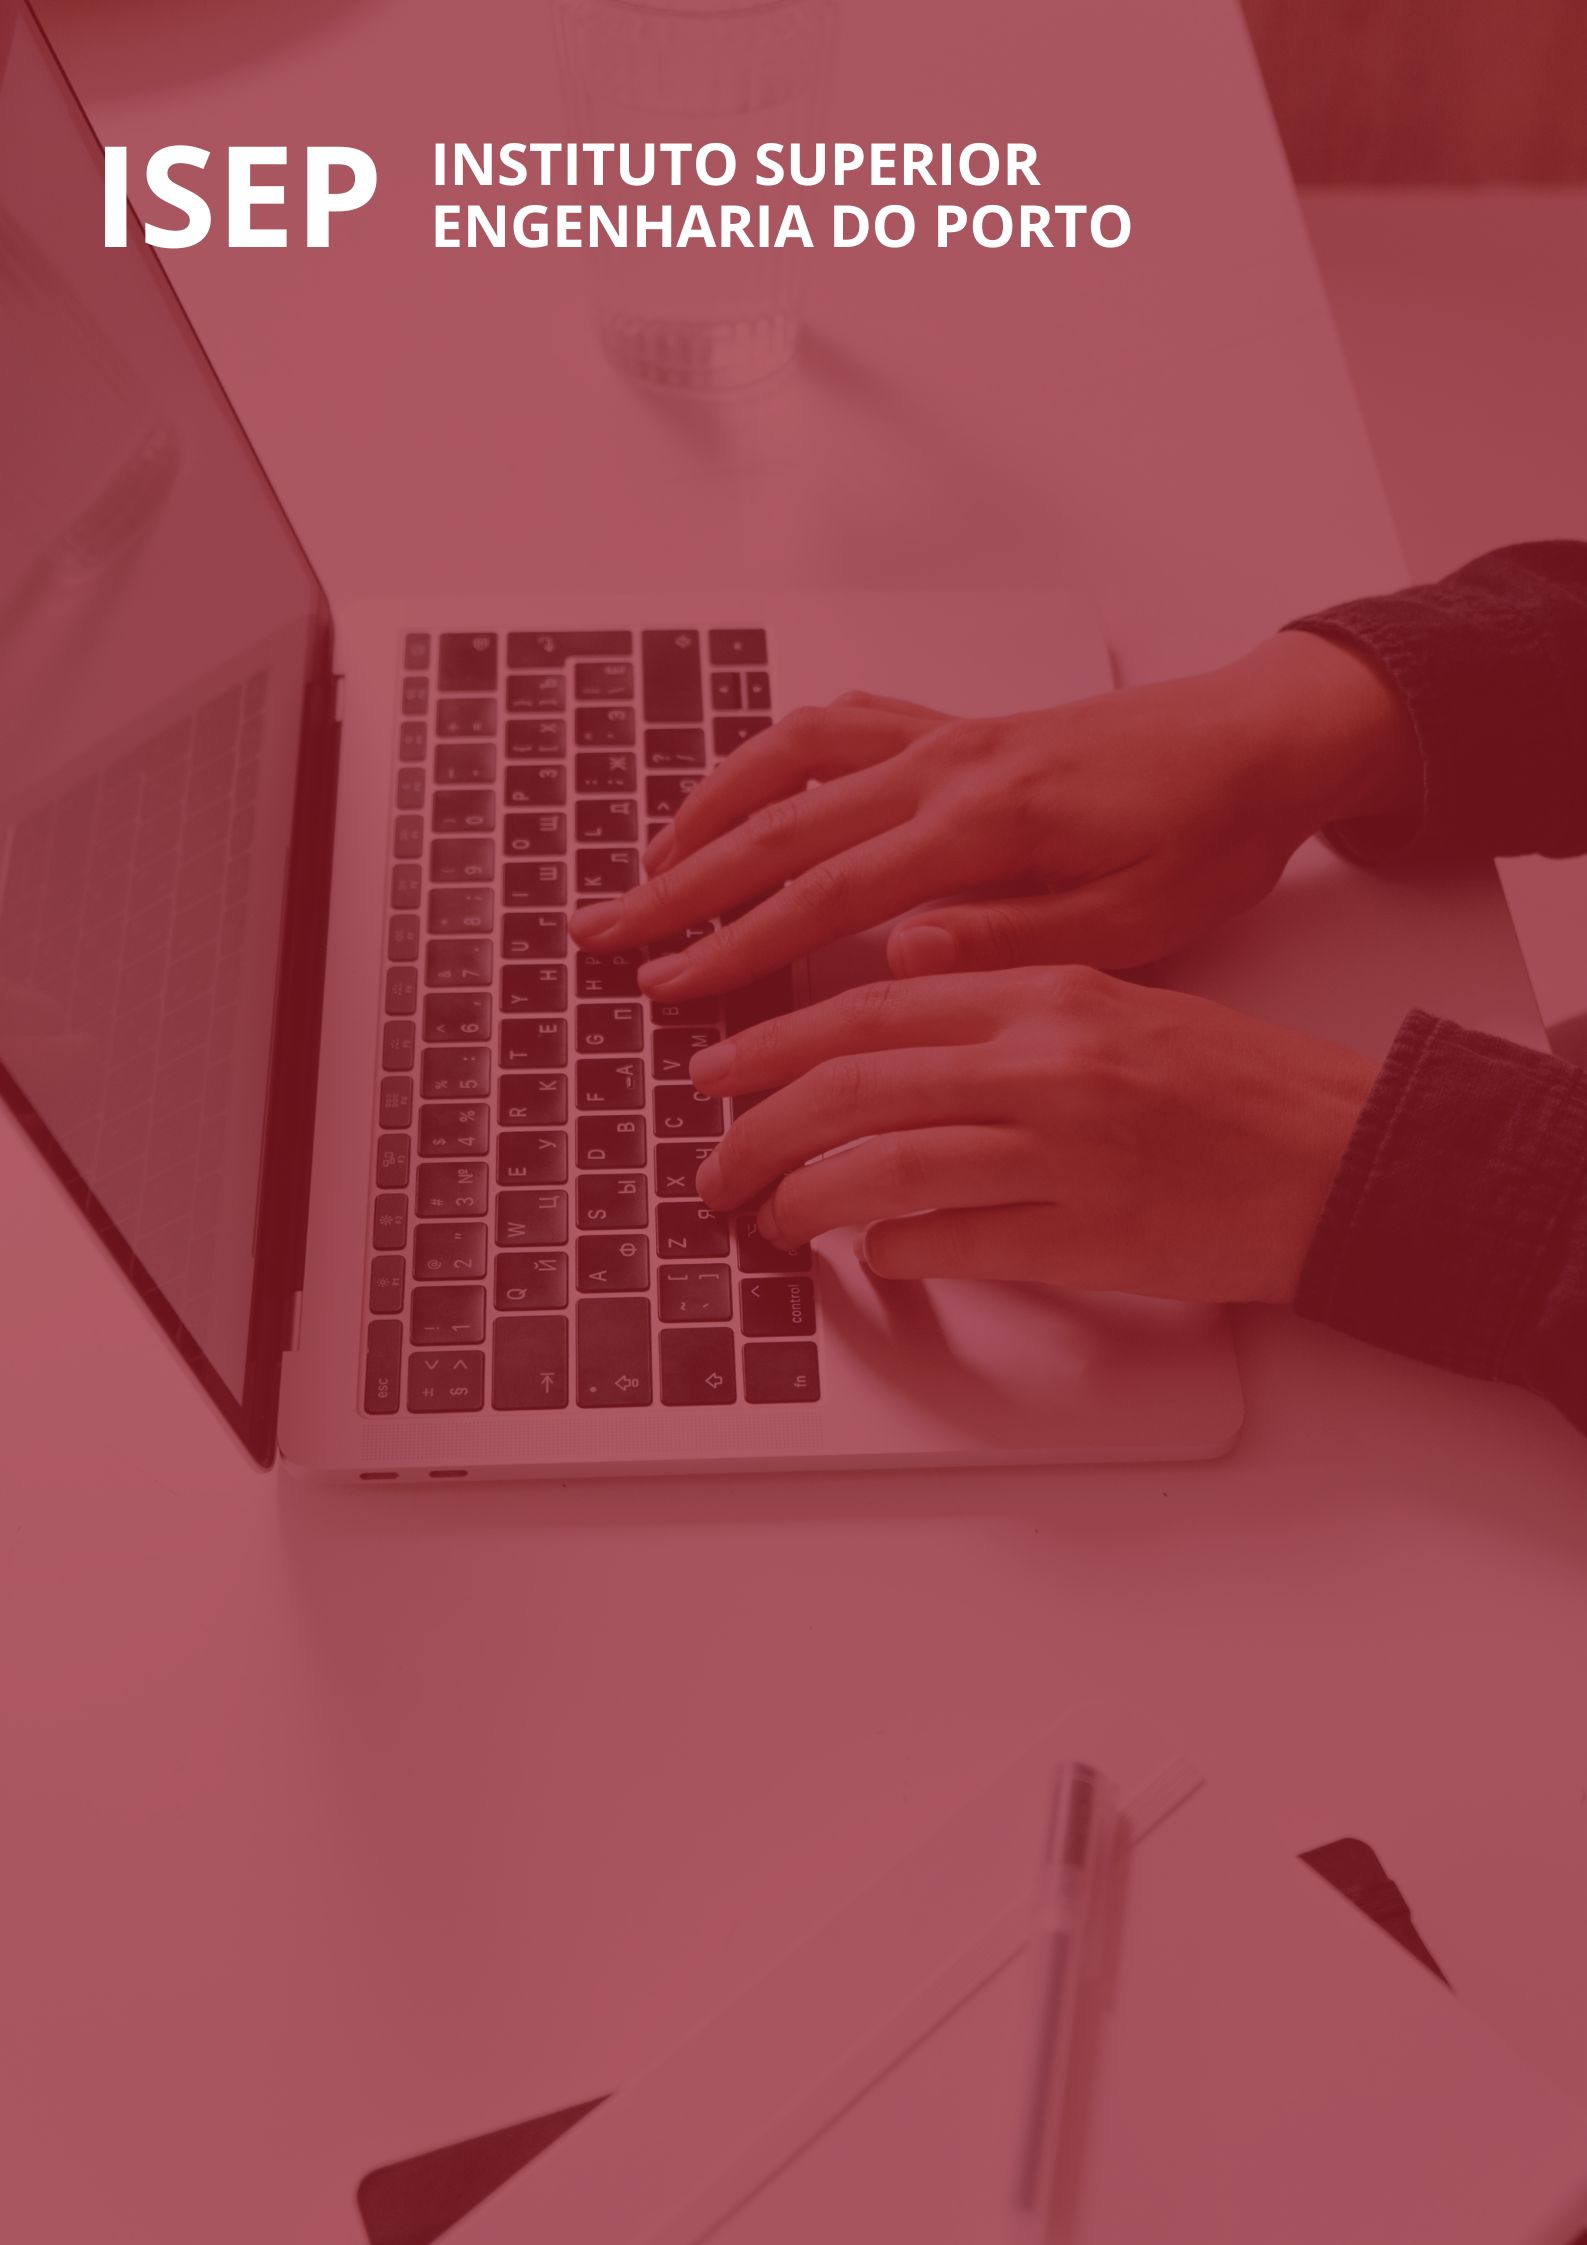
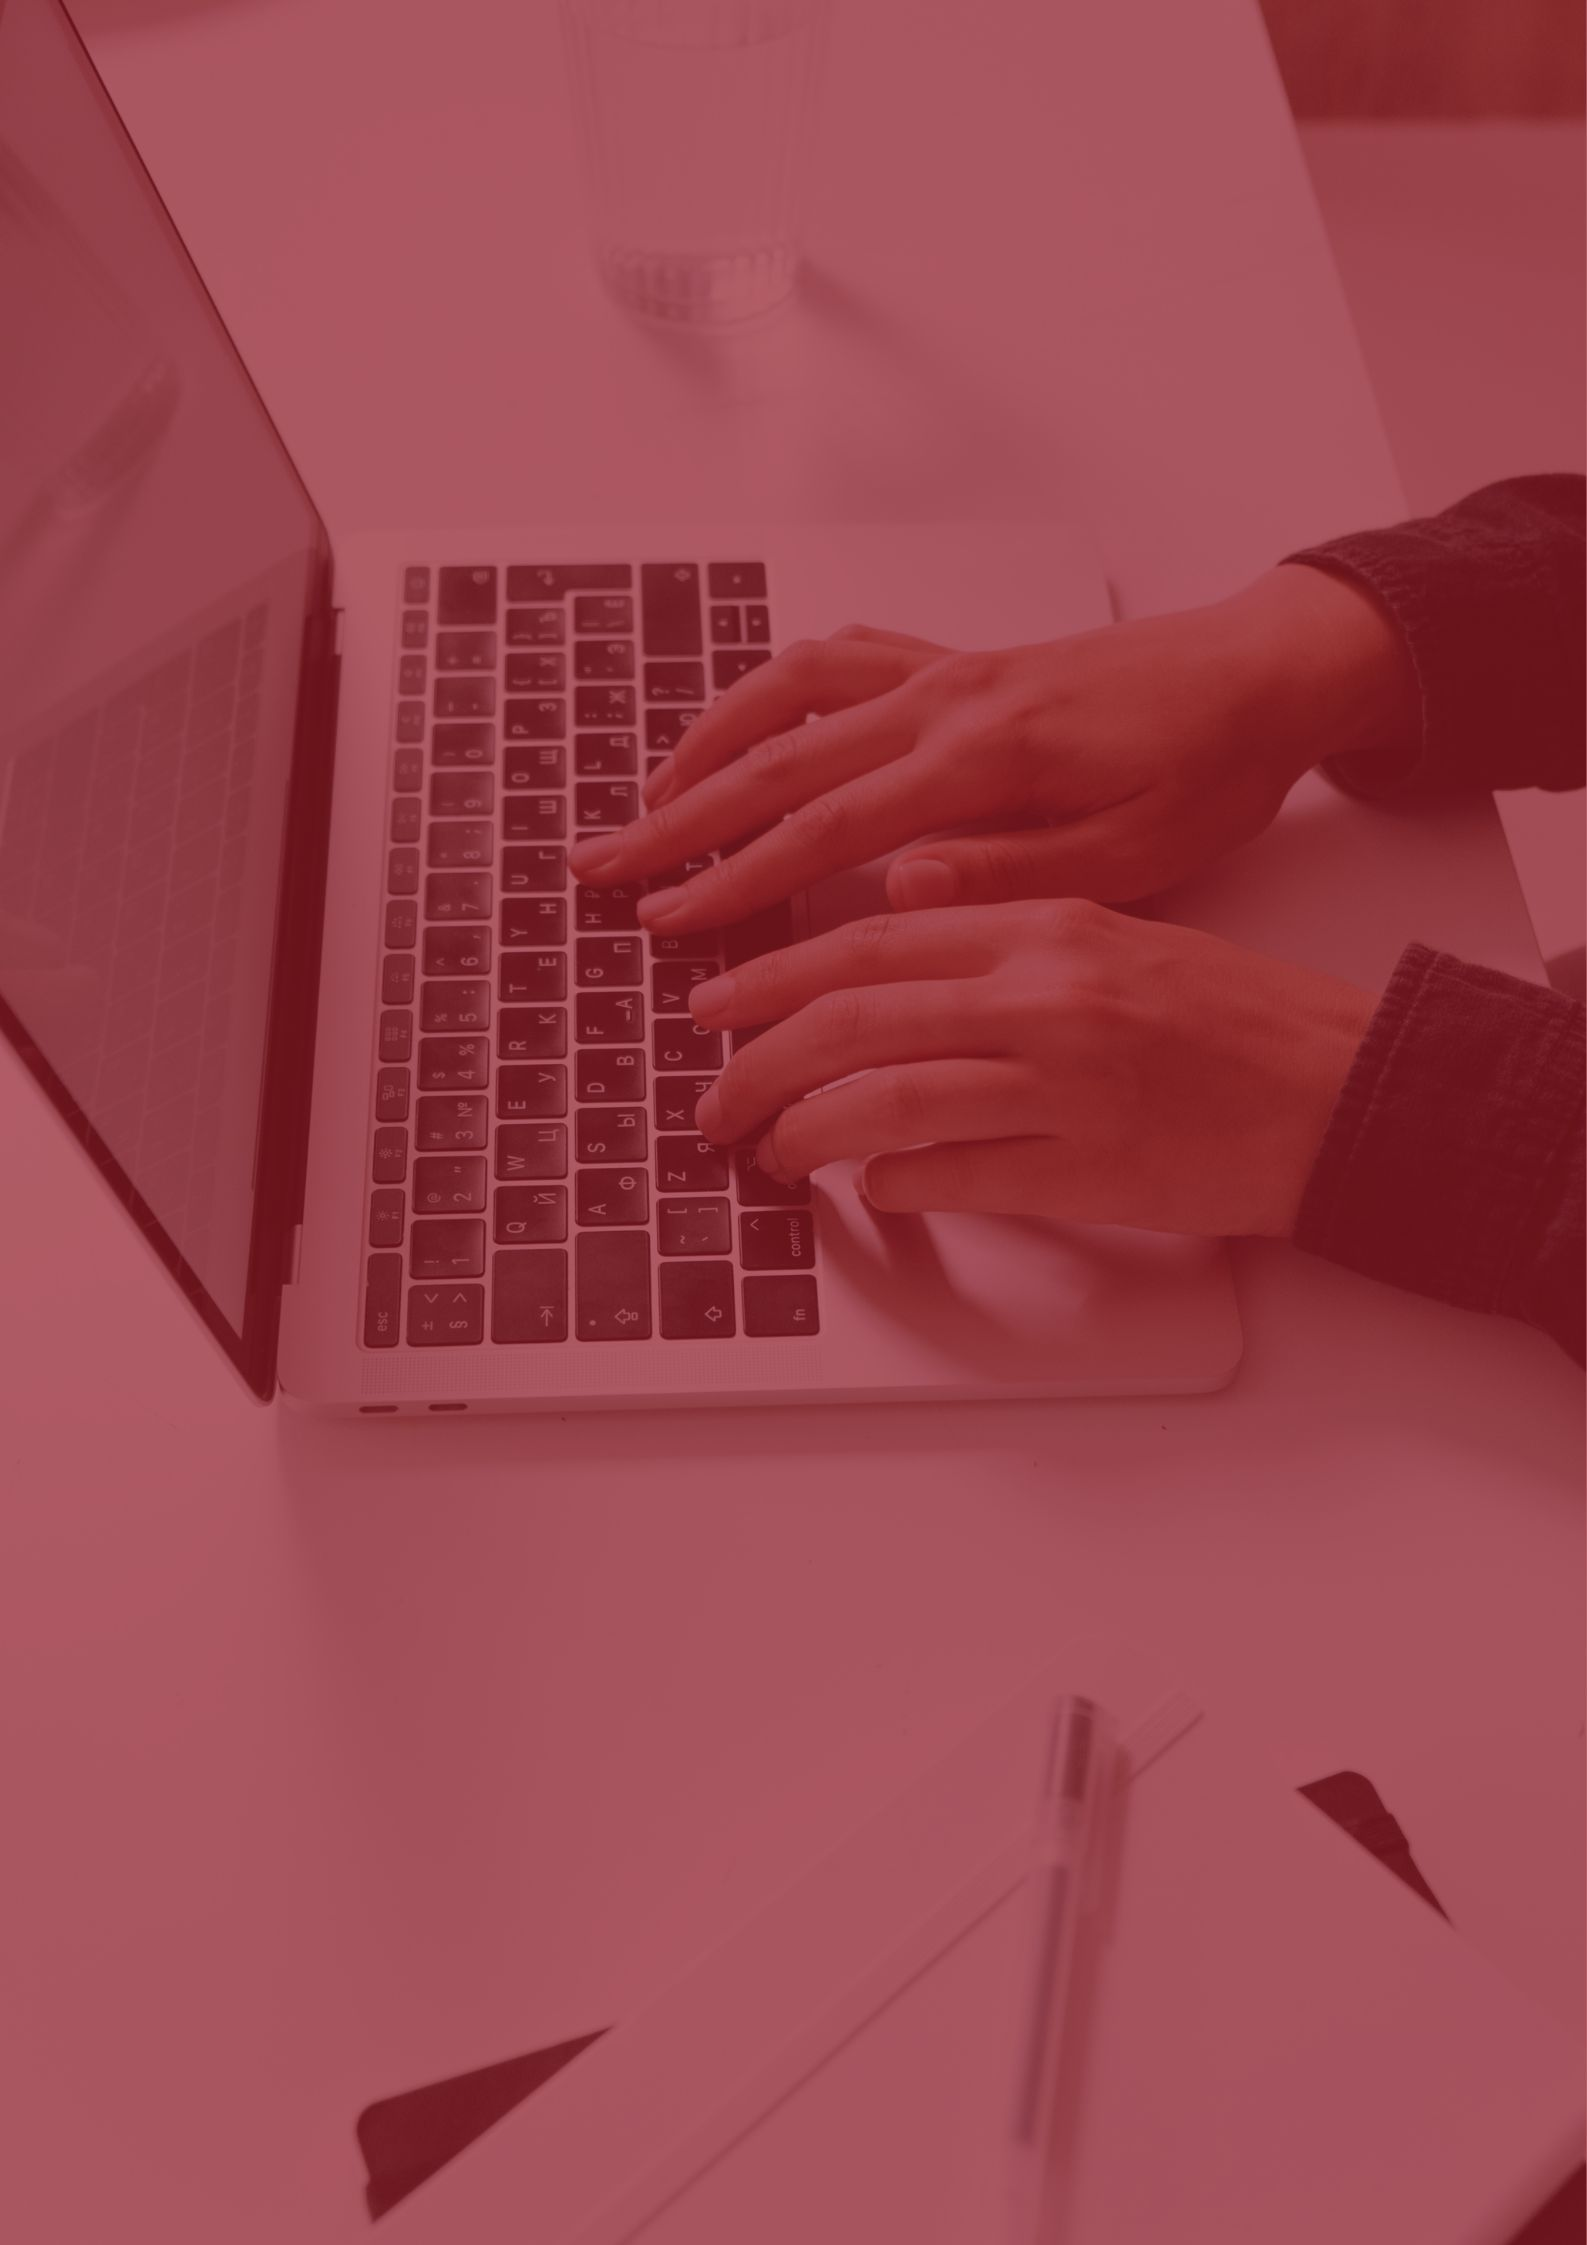
Added ISEP_logo-img to the form main image. #517

diff --git a/frontend/src/components/programmeComponent/ProgrammeForm.jsx b/frontend/src/components/programmeComponent/ProgrammeForm.jsx
@@ -1,6 +1,6 @@
 import React, {useEffect, useState} from 'react';
 import { registerProgramme } from '../../services/programmeService';
-import formImage from '../../assets/images/form-image.jpg';
+import ISEPLogoBranco from '../../assets/images/ISEP_logo-branco.png'
 
 export default function ProgrammeForm() {
     const [form, setForm] = useState({
@@ -92,7 +92,9 @@ export default function ProgrammeForm() {
         <div className="programme-main-grid">
 
             <div className="img-main-div">
-                <img className="form-img" src={formImage} alt="Person typing on a computer."/>
+                <div className="logo-img-form-div">
+                    <img src={ISEPLogoBranco} alt="Logo do ISEP"/>
+                </div>
             </div>
 
             <form className="programme-form" onSubmit={handleSubmit}>

diff --git a/frontend/src/styles/RegisterProgrammePage.css b/frontend/src/styles/RegisterProgrammePage.css
@@ -17,19 +17,29 @@
 
 .img-main-div {
     width: 100%;
+    display: flex;
+    align-items: start !important;
+    justify-content: start !important;
     border-top-left-radius: 5px;
     border-bottom-left-radius: 5px;
+    overflow: hidden;
+    background-image: url("../../src/assets/images/form-image.jpg");
+    background-position: center;
+    background-repeat: no-repeat;
+    background-size: cover;
+}
+
+.logo-img-form-div {
     display: flex;
     align-items: center;
     justify-content: center;
-    overflow: hidden;
+    max-width: 30rem;
+    padding-left: 2rem;
+    margin-top: -11rem;
 }
 
-.form-img {
+.logo-img-form-div img {
     width: 100%;
-    height: 100%;
-    object-fit: cover;
-    display: block;
 }
 
 .programme-form {

diff --git a/frontend/src/components/NavBar.js b/frontend/src/components/NavBar.js
@@ -14,8 +14,9 @@ const NavBar = () => {
       <nav className="navbar">
 
         <div className="logo-div">
-          <img className="logo-img" src={logoImage} alt="ISEP logo"/>
+          <Link to="/"><img className="logo-img" src={logoImage} alt="ISEP logo"/></Link>
         </div>
+
         <ul className="navbar-links-list-div">
           <li className="navbar-dropdown" onMouseEnter={handleMouseEnter} onMouseLeave={handleMouseLeave}>
             <span className="navbar-link" tabIndex={0}>
